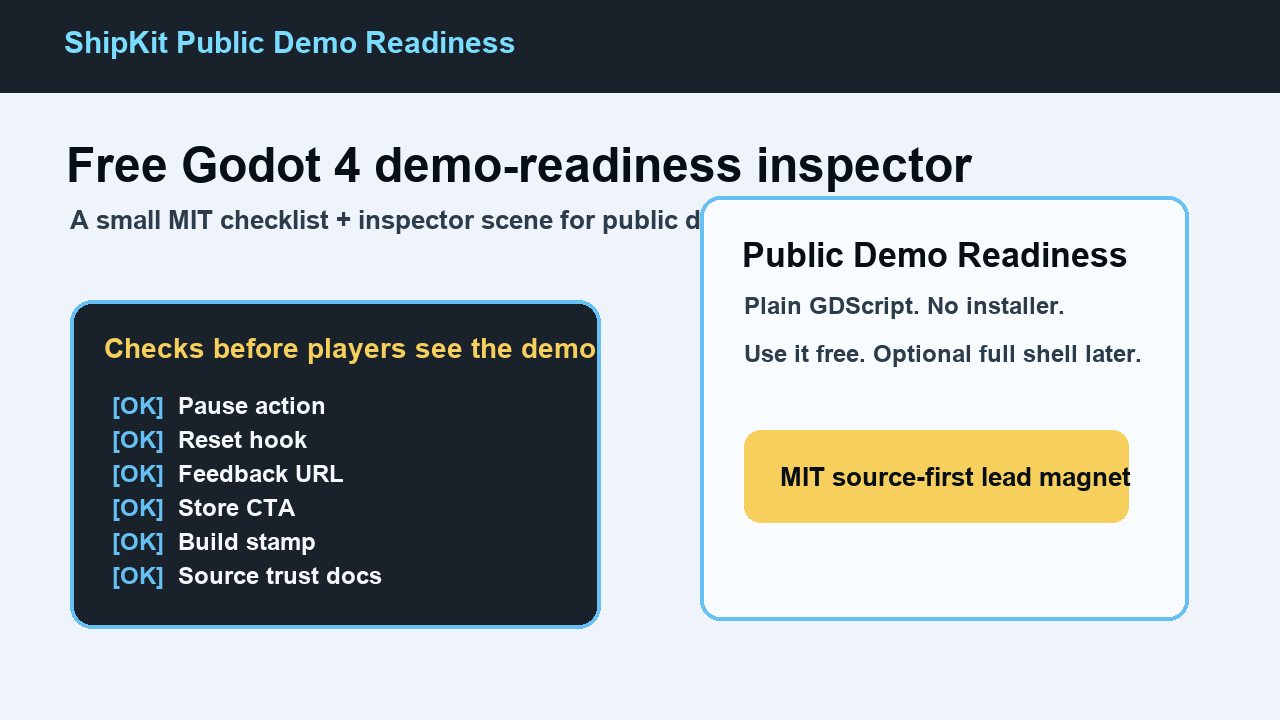
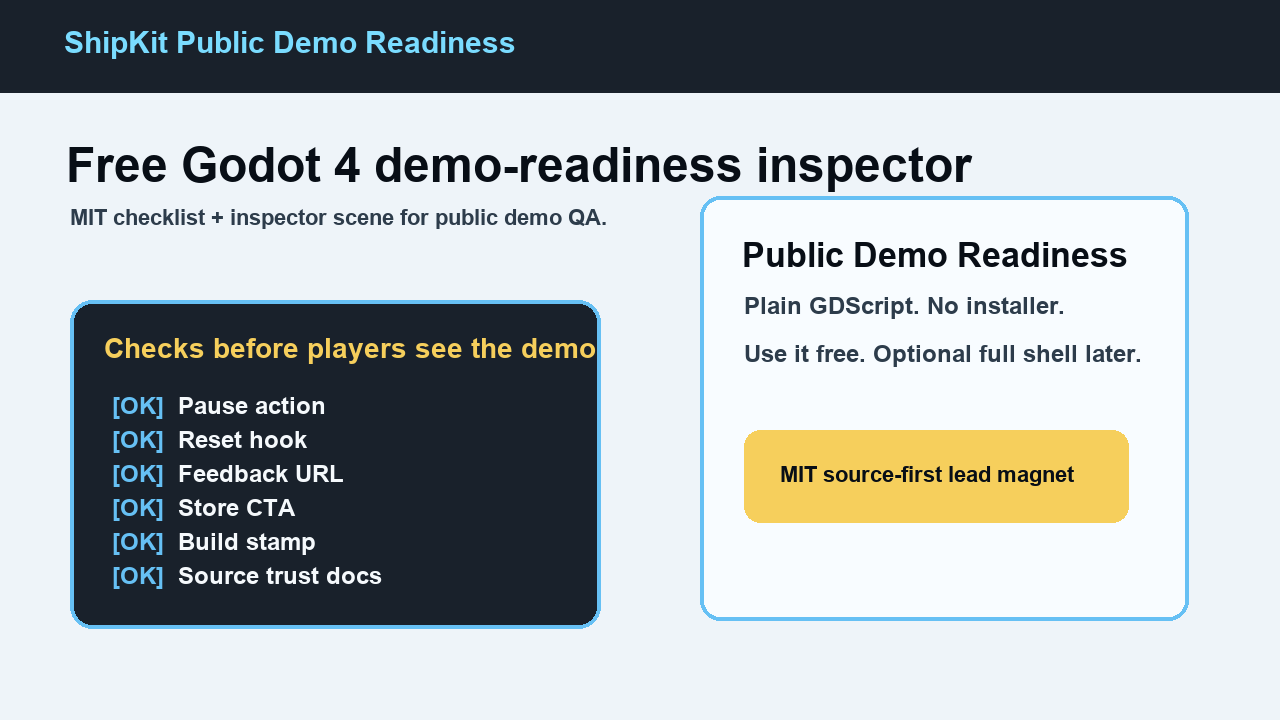
Tighten lead magnet trust media

Changed region(s): [[0.0625, 0.275, 0.5625, 0.3361], [0.5938, 0.6417, 0.9062, 0.7028]]

diff --git a/README.md b/README.md
@@ -8,10 +8,17 @@ or external playtesters.
 
 ## What's Included
 
-- `PUBLIC_DEMO_READINESS_CHECKLIST.md`
-- `DemoReadinessInspector` scene
-- `demo_readiness_inspector.gd`
+- `addons/shipkit_public_demo_readiness/docs/PUBLIC_DEMO_READINESS_CHECKLIST.md`
+- `addons/shipkit_public_demo_readiness/scenes/demo_readiness_inspector.tscn`
+- `addons/shipkit_public_demo_readiness/scripts/demo_readiness_inspector.gd`
 - MIT license
+
+## Source Trust
+
+- Source tag: https://github.com/AI-Vibing-AI/shipkit-public-demo-readiness/releases/tag/v0.1.0
+- ZIP: https://github.com/AI-Vibing-AI/shipkit-public-demo-readiness/releases/download/v0.1.0/shipkit-public-demo-readiness-v0.1.0.zip
+- SHA256: https://github.com/AI-Vibing-AI/shipkit-public-demo-readiness/releases/download/v0.1.0/shipkit-public-demo-readiness-v0.1.0.zip.sha256
+- Manifest: https://github.com/AI-Vibing-AI/shipkit-public-demo-readiness/releases/download/v0.1.0/shipkit-public-demo-readiness-v0.1.0-manifest.txt
 
 ## License
 
@@ -33,7 +40,8 @@ can inspect or adapt it quickly.
 Copy `addons/shipkit_public_demo_readiness` into your Godot 4 project.
 Enable the plugin from `Project > Project Settings > Plugins` if you want the
 `PublicDemoReadinessInspector` node type to appear in the editor. You can also
-Instance `scenes/demo_readiness_inspector.tscn` directly in a debug or QA scene.
+instance `res://addons/shipkit_public_demo_readiness/scenes/demo_readiness_inspector.tscn`
+directly in a debug or QA scene.
 
 Optional exported paths:
 

diff --git a/addons/shipkit_public_demo_readiness/README.md b/addons/shipkit_public_demo_readiness/README.md
@@ -8,10 +8,17 @@ or external playtesters.
 
 ## What's Included
 
-- `PUBLIC_DEMO_READINESS_CHECKLIST.md`
-- `DemoReadinessInspector` scene
-- `demo_readiness_inspector.gd`
+- `addons/shipkit_public_demo_readiness/docs/PUBLIC_DEMO_READINESS_CHECKLIST.md`
+- `addons/shipkit_public_demo_readiness/scenes/demo_readiness_inspector.tscn`
+- `addons/shipkit_public_demo_readiness/scripts/demo_readiness_inspector.gd`
 - MIT license
+
+## Source Trust
+
+- Source tag: https://github.com/AI-Vibing-AI/shipkit-public-demo-readiness/releases/tag/v0.1.0
+- ZIP: https://github.com/AI-Vibing-AI/shipkit-public-demo-readiness/releases/download/v0.1.0/shipkit-public-demo-readiness-v0.1.0.zip
+- SHA256: https://github.com/AI-Vibing-AI/shipkit-public-demo-readiness/releases/download/v0.1.0/shipkit-public-demo-readiness-v0.1.0.zip.sha256
+- Manifest: https://github.com/AI-Vibing-AI/shipkit-public-demo-readiness/releases/download/v0.1.0/shipkit-public-demo-readiness-v0.1.0-manifest.txt
 
 ## License
 
@@ -33,7 +40,8 @@ can inspect or adapt it quickly.
 Copy `addons/shipkit_public_demo_readiness` into your Godot 4 project.
 Enable the plugin from `Project > Project Settings > Plugins` if you want the
 `PublicDemoReadinessInspector` node type to appear in the editor. You can also
-Instance `scenes/demo_readiness_inspector.tscn` directly in a debug or QA scene.
+instance `res://addons/shipkit_public_demo_readiness/scenes/demo_readiness_inspector.tscn`
+directly in a debug or QA scene.
 
 Optional exported paths:
 